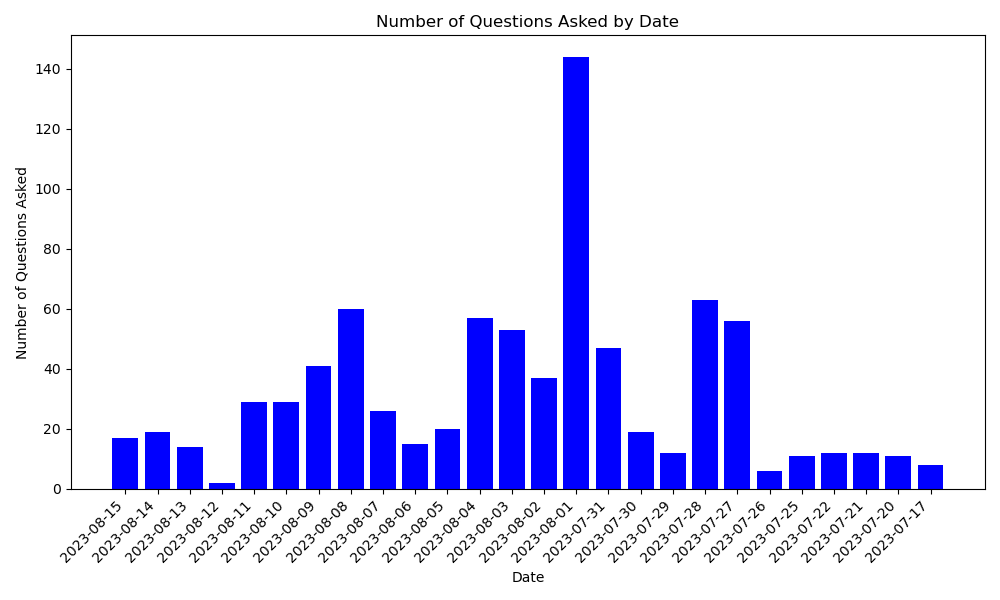
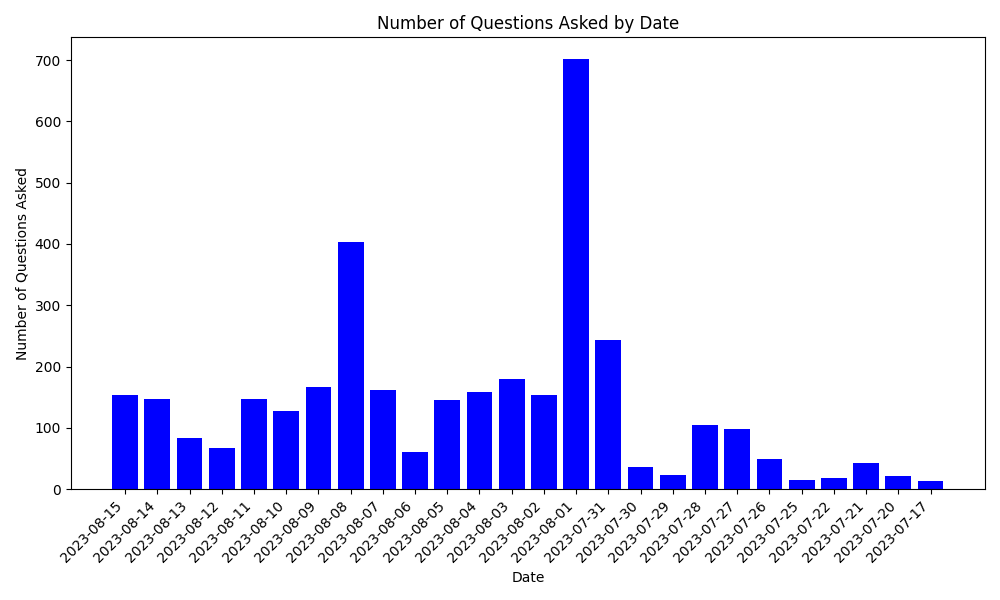
Some Important changes

diff --git a/python/dateFinder.py b/python/dateFinder.py
@@ -14,13 +14,16 @@ questions_by_date = defaultdict(int)
 
 # Iterate through conversations and messages to count questions by date
 for conversation in data['conversations']:
+    is_new_question = True
     for message in conversation['messages']:
-        if message['role'] == 'user' and '?' in message['content']:
+        if message['role'] == 'user':
             # Extract the date from the conversation's created_at field
             created_at = conversation.get('created_at', '')
             if created_at:
                 date = created_at[:10]
-                questions_by_date[date] += 1
+                if is_new_question:
+                    questions_by_date[date] += 1
+                is_new_question = True
 
 # Convert the dictionary to a list of dictionaries for JSON format
 result = [{'date': date, 'question_count': count} for date, count in questions_by_date.items()]

diff --git a/python/uniqueConversations.py b/python/uniqueConversations.py
@@ -1,0 +1,17 @@
+import json
+
+# Load the JSON data from conversations.json using the correct encoding
+with open('../json/conversations.json', 'r', encoding='utf-8') as file:
+    data = json.load(file)
+
+# Create a set to store unique conversation IDs
+unique_conversations = set()
+
+# Iterate through conversations and add their IDs to the set
+for conversation in data['conversations']:
+    unique_conversations.add(conversation['id'])
+
+# Count the number of unique conversations
+num_unique_conversations = len(unique_conversations)
+
+print(f"Number of unique conversations: {num_unique_conversations}")
